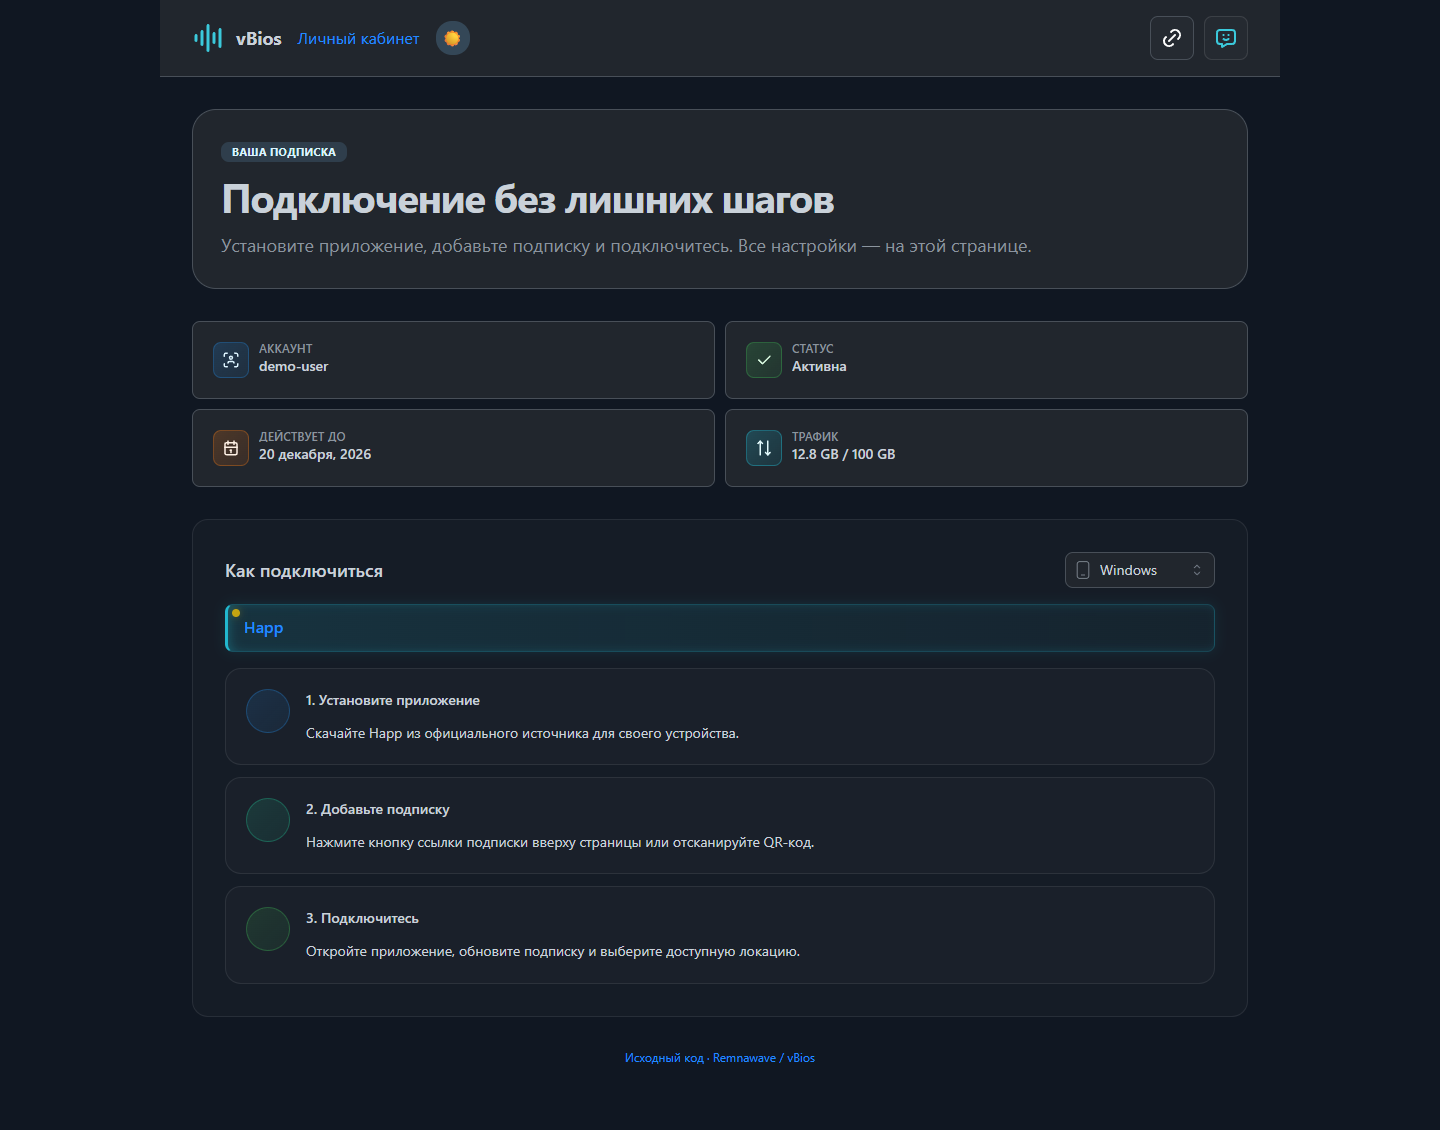
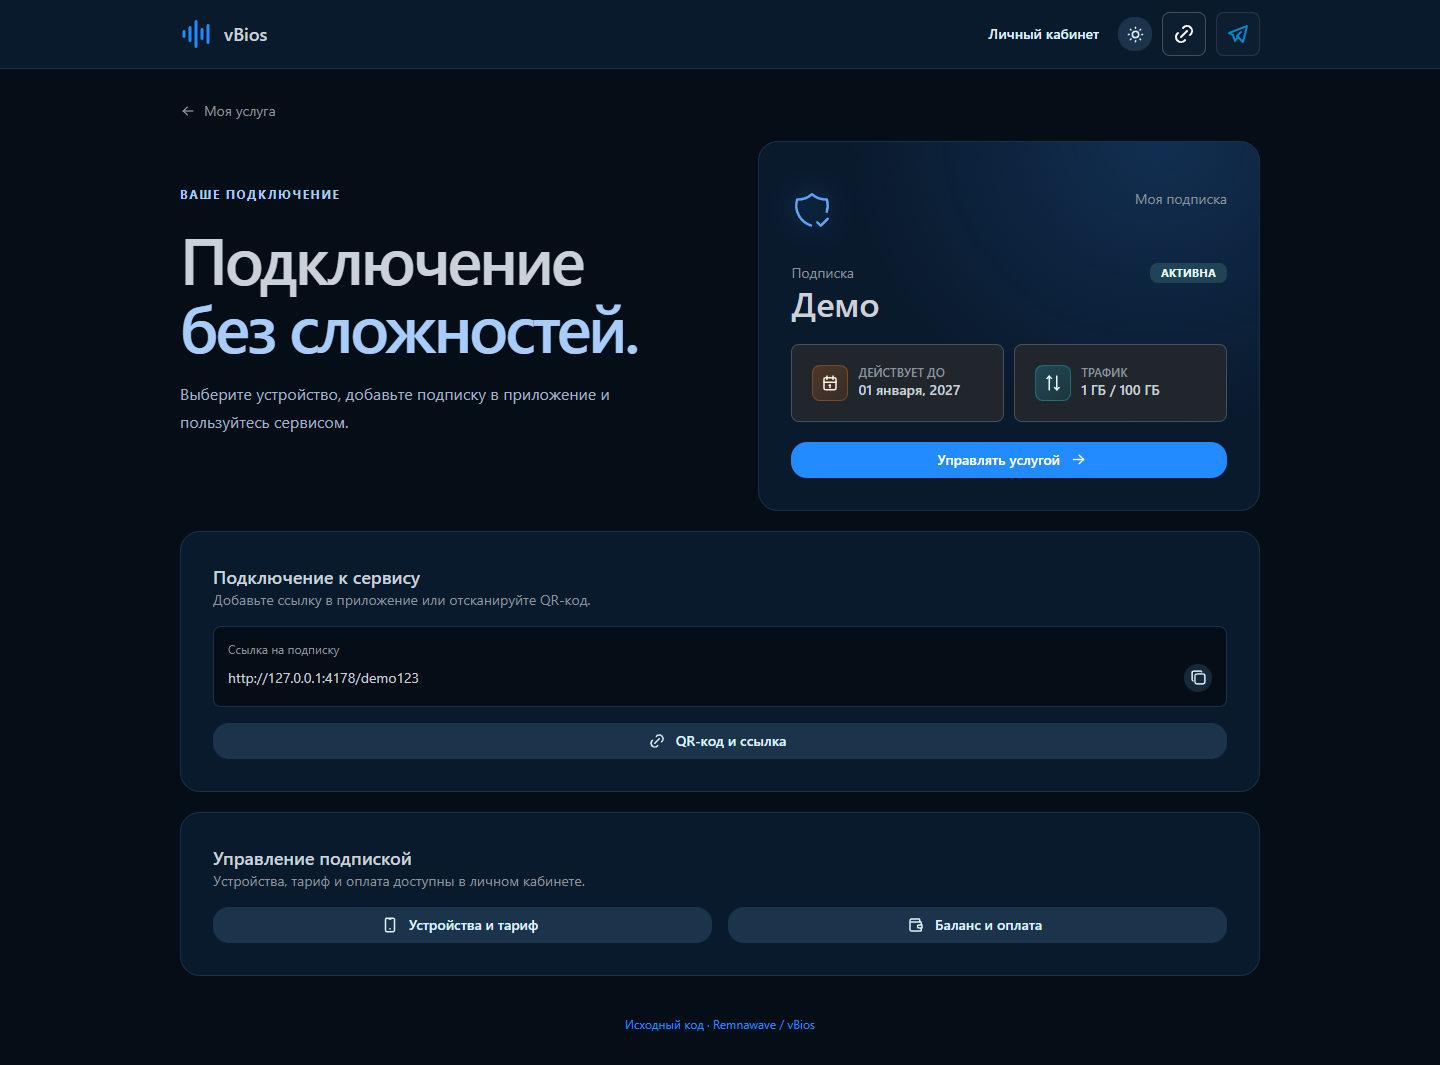
Обновить скриншоты страницы подписки

diff --git a/README.md b/README.md
@@ -25,6 +25,10 @@
 | --- | --- |
 | ![Стартовая страница](docs/screenshots/current-landing-desktop-light.png) | ![Главная кабинета](docs/screenshots/current-dashboard-desktop-dark.png) |
 
+| Страница подписки на компьютере | Страница подписки на телефоне |
+| --- | --- |
+| ![Страница подписки — компьютер](docs/screenshots/subscription-page-desktop-dark.png) | ![Страница подписки — телефон](docs/screenshots/subscription-page-mobile-dark.png) |
+
 | Подписка на компьютере | Подписка на телефоне |
 | --- | --- |
 | ![Новый график трафика](docs/screenshots/traffic-detail-desktop-light.png) | ![График трафика на телефоне](docs/screenshots/traffic-detail-mobile-dark.png) |
